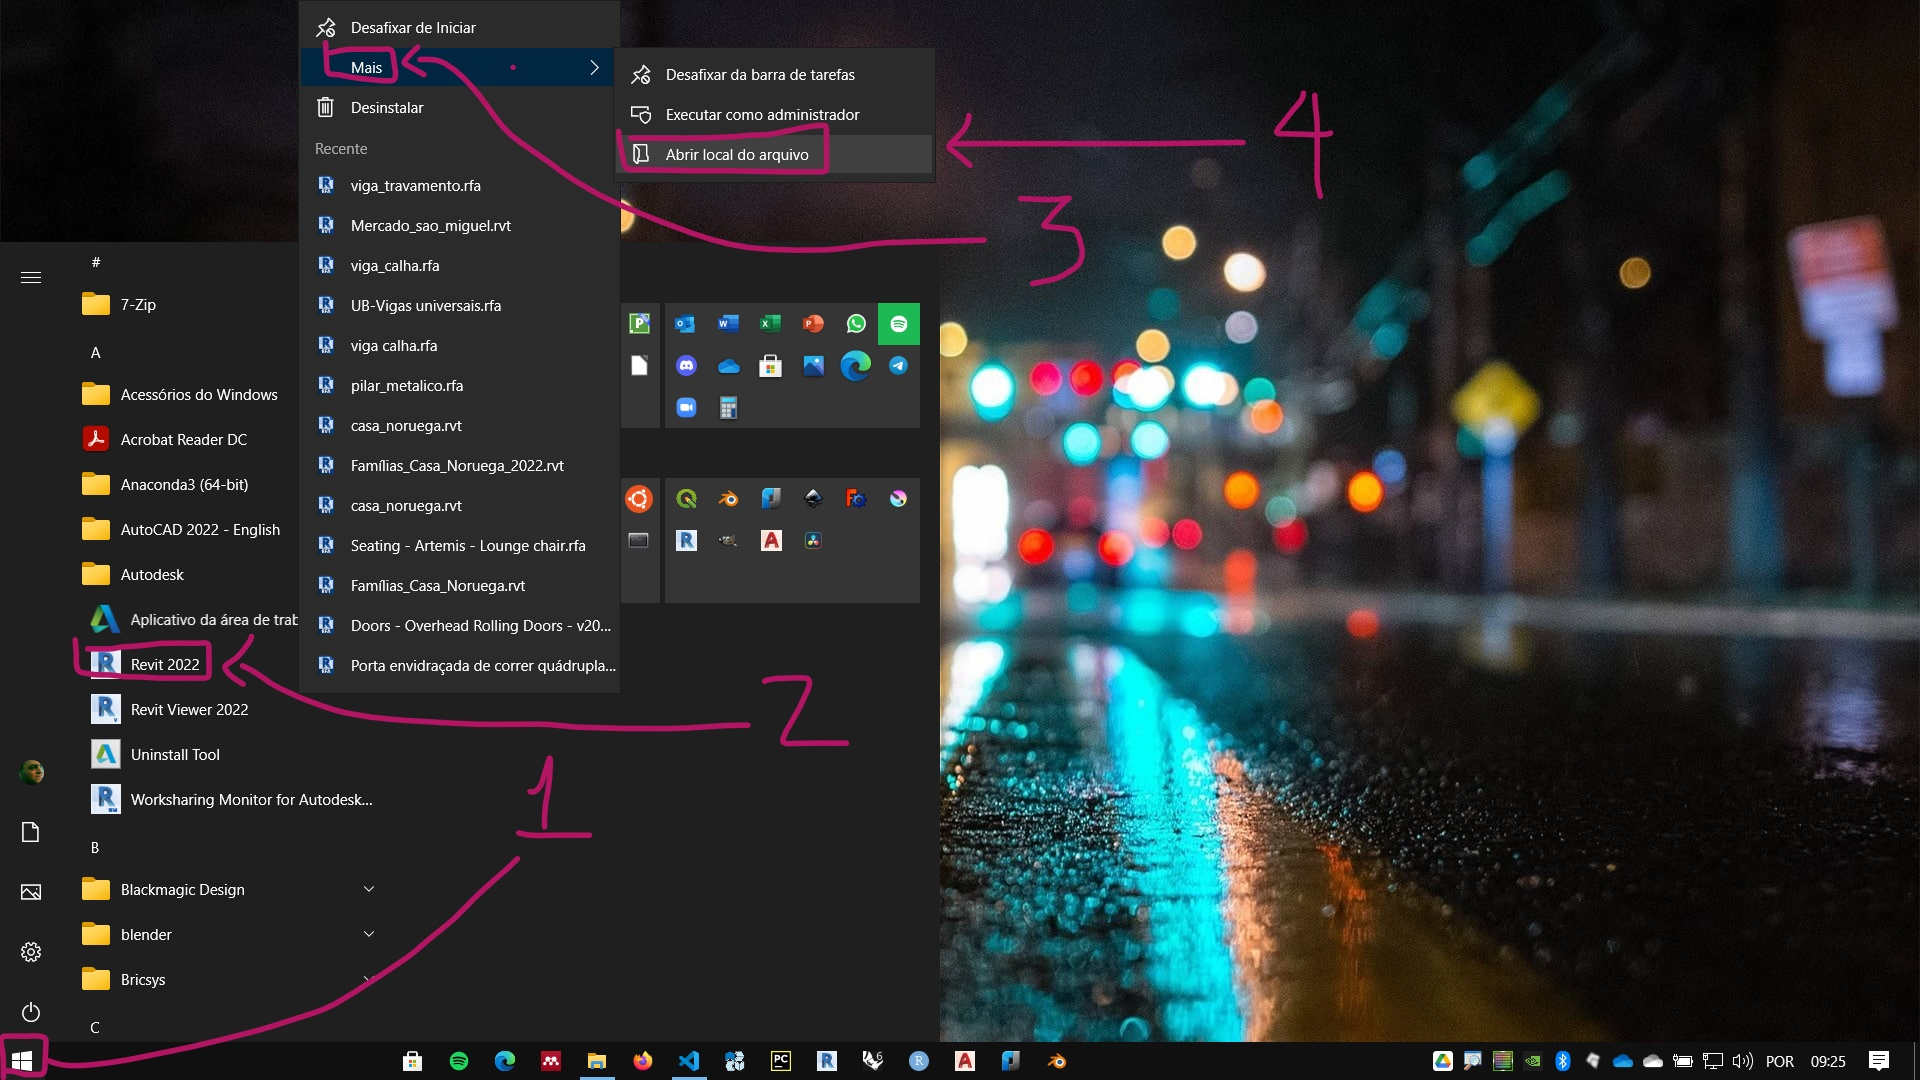
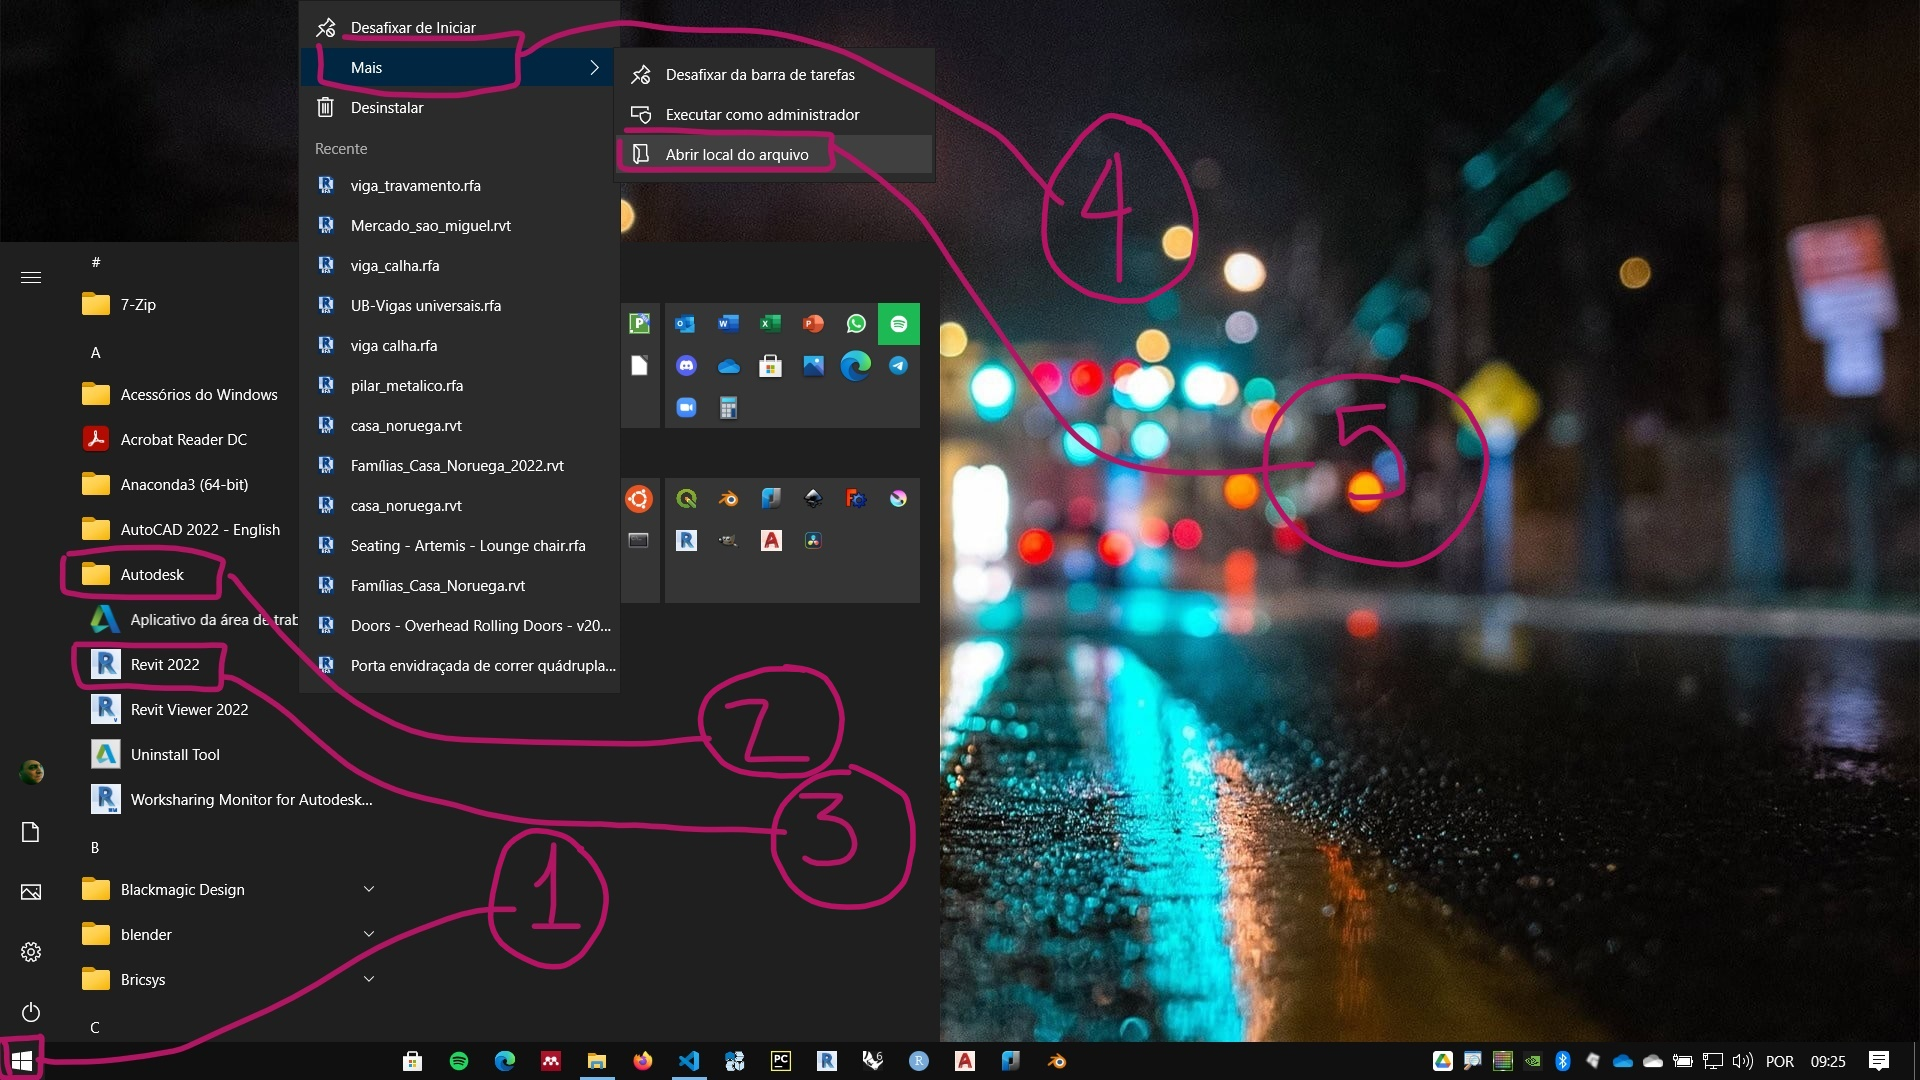
Deployed 7281bab with MkDocs version: 1.2.2

diff --git a/revit/init_revit/instala.html b/revit/init_revit/instala.html
@@ -806,6 +806,13 @@
 <p><a href="https://www.autodesk.com.br/education/edu-software/overview?sorting=featured&amp;filters=individual">Link Autodesk educacional Brasil</a></p>
 <p><a href="https://www.youtube.com/watch?v=NW71aaIatlc">Instalação Revit 2022 - Canal Layout Arquitetura</a></p>
 <h2 id="mudando-de-idioma">Mudando de idioma</h2>
+<ol>
+<li>Abra o menu iniciar</li>
+<li>no menu iniciar, abra a pasta Autodesk</li>
+<li>clique com o botão direito no ícone do Revit</li>
+<li>escolha a opção mais</li>
+<li>clique para abrir o local do arquivo</li>
+</ol>
 <p><img alt="idioma" src="idioma/idioma_01_LI.jpg" /></p>
 <p><img alt="idioma" src="idioma/idioma_03_LI.jpg" /></p>
 <p><img alt="idioma" src="idioma/idioma_04_LI.jpg" /></p>
